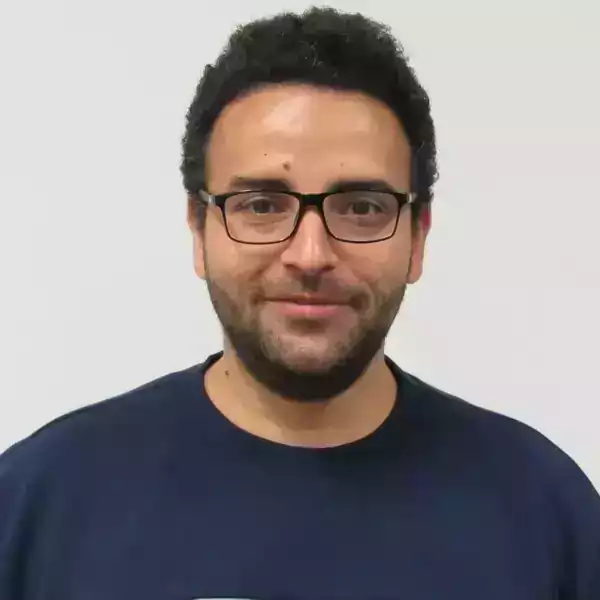
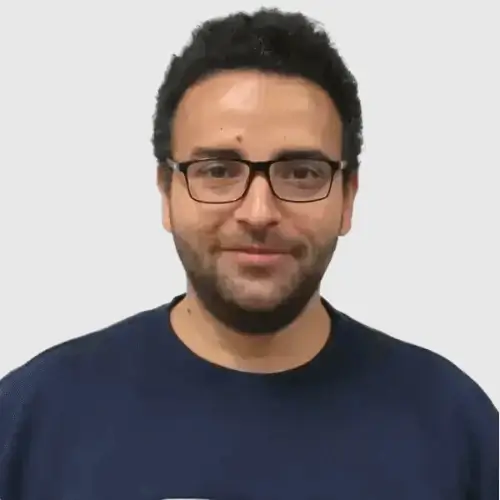
g

diff --git a/index.html b/index.html
@@ -101,8 +101,8 @@
         </nav><!-- .navbar -->
       </div>
     </header><!-- End Header -->
-    <!-- ======= Intro ======= -->
-    <section id="intro">
+    <!-- ======= Intro Section ======= -->
+    <section id="intro" class="d-flex align-items-center">
       <div class="intro-container">
         <div id="introCarousel" class="carousel slide carousel-fade" data-bs-ride="carousel" data-bs-interval="5000">
           <ol id="intro-carousel-indicators" class="carousel-indicators"></ol>
@@ -504,7 +504,7 @@
               </ul>
             </div>
           </div>
-          <div class="row portfolio-container" data-aos="fade-up" data-aos-delay="100">
+          <div class="row portfolio-container" data-aos="fade-up" data-aos-delay="200">
             <div class="col-lg-4 col-md-6 portfolio-item filter-values">
               <img src="assets/img/portfolio/1s.webp" alt="Personal Relationships with Customers" width="533" height="400" class="img-fluid" loading="lazy">
               <div class="portfolio-info">Life-long Customer Relationships
@@ -739,7 +739,7 @@
       </section><!-- End Portfolio Section -->
       <!-- ======= Team Section ======= -->
       <section id="team" class="team section-bg">
-        <div class="container" data-aos="zoom-in">
+        <div class="container" data-aos="fade-up">
           <div class="section-title">
             <span class="title">Team</span>
             <div class="quote"><i class="bx bxs-quote-alt-left quote-icon-left"></i> Our company's purpose - solving complex ISO challenges, and all quality-related matters - is what we aspire to do, in a comprehensive and sustainable context... <i class="bx bxs-quote-alt-right quote-icon-right"></i></div>
@@ -751,10 +751,10 @@
             <hr>
           </div>
           <div class="row">
-            <div class="col-lg-3 col-md-6 d-flex align-items-stretch" data-aos="zoom-in" data-aos-delay="100">
+            <div class="col-lg-3 col-md-6 d-flex align-items-stretch" data-aos="fade-up" data-aos-delay="100">
               <div class="member">
                 <div class="member-img">
-                  <img src="assets/img/team/ceo-s.webp" alt="Dr. Tarek Elsherif" title="Dr. Tarek Elsherif" width="600" height="600" class="img-fluid" loading="lazy">
+                  <img src="assets/img/team/ceo-s.webp" alt="Dr. Tarek Elsherif" title="Dr. Tarek Elsherif" width="500" height="500" class="img-fluid" loading="lazy">
                   <div class="social">
                     <a href="mailto:drtarekelsherif@the4z.com" title="Send Me An Email"><i class="bx bx-mail-send"></i></a>
                     <a href="https://www.linkedin.com/in/tarekelsherif1965/" target="_blank" rel="noopener noreferrer" title="Join me"><i class="bx bxl-linkedin"></i></a>
@@ -764,10 +764,10 @@
                 <div class="member-info"><h4>Dr. Tarek Elsherif</h4><span>Chief Executive Officer</span></div>
               </div>
             </div>
-            <div class="col-lg-3 col-md-6 d-flex align-items-stretch" data-aos="zoom-in" data-aos-delay="150">
+            <div class="col-lg-3 col-md-6 d-flex align-items-stretch" data-aos="fade-up" data-aos-delay="200">
               <div class="member">
                 <div class="member-img">
-                  <img src="assets/img/team/nagwa.webp" alt="Mrs. Nagwa Galal" title="Mrs. Nagwa Galal" width="600" height="600" class="img-fluid" loading="lazy">
+                  <img src="assets/img/team/nagwa.webp" alt="Mrs. Nagwa Galal" title="Mrs. Nagwa Galal" width="500" height="500" class="img-fluid" loading="lazy">
                   <div class="social">
                     <a href="mailto:nagwa.galal@the4z.com" title="Send Me Email"><i class="bx bx-mail-send"></i></a>
                     <a href="https://www.linkedin.com/in/nagwagalal/" target="_blank" rel="noopener noreferrer" title="Check me"><i class="bx bxl-linkedin"></i></a>
@@ -777,10 +777,10 @@
                 <div class="member-info">Mrs. Nagwa Galal<span>General Manager</span></div>
               </div>
             </div>
-            <div class="col-lg-3 col-md-6 d-flex align-items-stretch" data-aos="zoom-in" data-aos-delay="200">
+            <div class="col-lg-3 col-md-6 d-flex align-items-stretch" data-aos="fade-up" data-aos-delay="300">
               <div class="member">
                 <div class="member-img">
-                  <img src="assets/img/team/abdul.webp" alt="Dr. Abdulrahman Elbagory" title="Dr. Abdulrahman Elbagory" width="600" height="600" class="img-fluid" loading="lazy">
+                  <img src="assets/img/team/abdul.webp" alt="Dr. Abdulrahman Elbagory" title="Dr. Abdulrahman Elbagory" width="500" height="500" class="img-fluid" loading="lazy">
                   <div class="social">
                     <a href="mailto:abdulnagy@gmail.com" title="Write to me Email"><i class="bx bx-mail-send"></i></a>
                     <a href="https://www.linkedin.com/in/abdulrahman-elbagory-8842911a0/" target="_blank" rel="noopener noreferrer" title="Follow me"><i class="bx bxl-linkedin"></i></a>
@@ -790,10 +790,10 @@
                 <div class="member-info">Dr. Abdulrahman Elbagory<span>Consultant</span></div>
               </div>
             </div>
-            <div class="col-lg-3 col-md-6 d-flex align-items-stretch" data-aos="zoom-in" data-aos-delay="250">
+            <div class="col-lg-3 col-md-6 d-flex align-items-stretch" data-aos="fade-up" data-aos-delay="400">
               <div class="member">
                 <div class="member-img">
-                  <img src="assets/img/team/madan.webp" alt="Mr. Madan Aterkar" title="Mr. Madan Aterkar" width="600" height="600" class="img-fluid" loading="lazy">
+                  <img src="assets/img/team/madan.webp" alt="Mr. Madan Aterkar" title="Mr. Madan Aterkar" width="500" height="500" class="img-fluid" loading="lazy">
                   <div class="social">
                     <a href="mailto:madan.aterkar@gmail.com" title="Write to Me an Email"><i class="bx bx-mail-send"></i></a>
                     <a href="https://www.linkedin.com/in/madan-aterkar-027a95137/" target="_blank" rel="noopener noreferrer" title="Connect me"><i class="bx bxl-linkedin"></i></a>

diff --git a/ar/index.html b/ar/index.html
@@ -737,7 +737,7 @@
       </section><!-- End Portfolio Section -->
       <!-- ======= Team Section ======= -->
       <section id="team" class="team section-bg">
-        <div class="container" data-aos="zoom-in">
+        <div class="container" data-aos="fade-up">
           <div class="section-title">
             <span class="title">فريق العمل</span>
             <div class="quote"><i class="bx bxs-quote-alt-right quote-icon-right"></i> هدف شركتنا هو حل تحديات الأيزو المعقدة وكل ما يتعلق بأمور الجودة. وهو ما نطمح للقيام به في سياق شامل ومستدام <i class="bx bxs-quote-alt-left quote-icon-left"></i></div>
@@ -749,10 +749,10 @@
             <hr>
           </div>
           <div class="row">
-            <div class="col-lg-3 col-md-6 d-flex align-items-stretch" data-aos="zoom-in" data-aos-delay="100">
+            <div class="col-lg-3 col-md-6 d-flex align-items-stretch" data-aos="fade-up" data-aos-delay="100">
               <div class="member">
                 <div class="member-img">
-                  <img src="../assets/img/team/ceo-s.webp" alt="الرئيس التنفيذي لشركة فور زد للجــودة" title="الرئيس التنفيذي لشركة فور زد للجــودة" width="600" height="600" class="img-fluid" loading="lazy">
+                  <img src="../assets/img/team/ceo-s.webp" alt="الرئيس التنفيذي لشركة فور زد للجــودة" title="الرئيس التنفيذي لشركة فور زد للجــودة" width="500" height="500" class="img-fluid" loading="lazy">
                   <div class="social">
                     <a href="mailto:drtarekelsherif@the4z.com" title="يشرفنا التواصل معكم مباشرة"><i class="bx bx-mail-send"></i></a>
                     <a href="https://www.linkedin.com/in/tarekelsherif1965/" target="_blank" rel="noopener noreferrer" title="لينكدإن"><i class="bx bxl-linkedin"></i></a>
@@ -762,10 +762,10 @@
                 <div class="member-info"><h4>د. طارق الشريف</h4><span>الرئيس التنفيذي</span></div>
               </div>
             </div>
-            <div class="col-lg-3 col-md-6 d-flex align-items-stretch" data-aos="zoom-in" data-aos-delay="150">
+            <div class="col-lg-3 col-md-6 d-flex align-items-stretch" data-aos="fade-up" data-aos-delay="200">
               <div class="member">
                 <div class="member-img">
-                  <img src="../assets/img/team/nagwa.webp" alt="مديرة فور زد للجــودة" title="مديرة فور زد للجــودة" width="600" height="600" class="img-fluid" loading="lazy">
+                  <img src="../assets/img/team/nagwa.webp" alt="مديرة فور زد للجــودة" title="مديرة فور زد للجــودة" width="500" height="500" class="img-fluid" loading="lazy">
                   <div class="social">
                     <a href="mailto:nagwa.galal@the4z.com" title="مرحبًا باستفساراتكم"><i class="bx bx-mail-send"></i></a>
                     <a href="https://www.linkedin.com/in/nagwagalal/" target="_blank" rel="noopener noreferrer" title="حسابي على لينكدإن"><i class="bx bxl-linkedin"></i></a>
@@ -775,10 +775,10 @@
                 <div class="member-info">السيدة نجوى جلال<span>المدير العام</span></div>
               </div>
             </div>
-            <div class="col-lg-3 col-md-6 d-flex align-items-stretch" data-aos="zoom-in" data-aos-delay="200">
+            <div class="col-lg-3 col-md-6 d-flex align-items-stretch" data-aos="fade-up" data-aos-delay="300">
               <div class="member">
                 <div class="member-img">
-                  <img src="../assets/img/team/abdul.webp" alt="مستشار بشركة فور زد للجــودة" title="مستشار بشركة فور زد للجــودة" width="600" height="600" class="img-fluid" loading="lazy">
+                  <img src="../assets/img/team/abdul.webp" alt="مستشار بشركة فور زد للجــودة" title="مستشار بشركة فور زد للجــودة" width="500" height="500" class="img-fluid" loading="lazy">
                   <div class="social">
                     <a href="mailto:abdulnagy@gmail.com" title="راسلني على بريدي الإلكتروني"><i class="bx bx-mail-send"></i></a>
                     <a href="https://www.linkedin.com/in/abdulrahman-elbagory-8842911a0/" target="_blank" rel="noopener noreferrer" title="تابعني"><i class="bx bxl-linkedin"></i></a>
@@ -788,10 +788,10 @@
                 <div class="member-info">د. عبد الرحمن الباجوري<span>مستشار</span></div>
               </div>
             </div>
-            <div class="col-lg-3 col-md-6 d-flex align-items-stretch" data-aos="zoom-in" data-aos-delay="250">
+            <div class="col-lg-3 col-md-6 d-flex align-items-stretch" data-aos="fade-up" data-aos-delay="400">
               <div class="member">
                 <div class="member-img">
-                  <img src="../assets/img/team/madan.webp" alt="مستشار بشركة فور زد للجــودة" title="مستشار بشركة فور زد للجــودة" width="600" height="600" class="img-fluid" loading="lazy">
+                  <img src="../assets/img/team/madan.webp" alt="مستشار بشركة فور زد للجــودة" title="مستشار بشركة فور زد للجــودة" width="500" height="500" class="img-fluid" loading="lazy">
                   <div class="social">
                     <a href="mailto:madan.aterkar@gmail.com" title="اكتب لي رسالة"><i class="bx bx-mail-send"></i></a>
                     <a href="https://www.linkedin.com/in/madan-aterkar-027a95137/" target="_blank" rel="noopener noreferrer" title="تابعني على لينكدإن"><i class="bx bxl-linkedin"></i></a>
